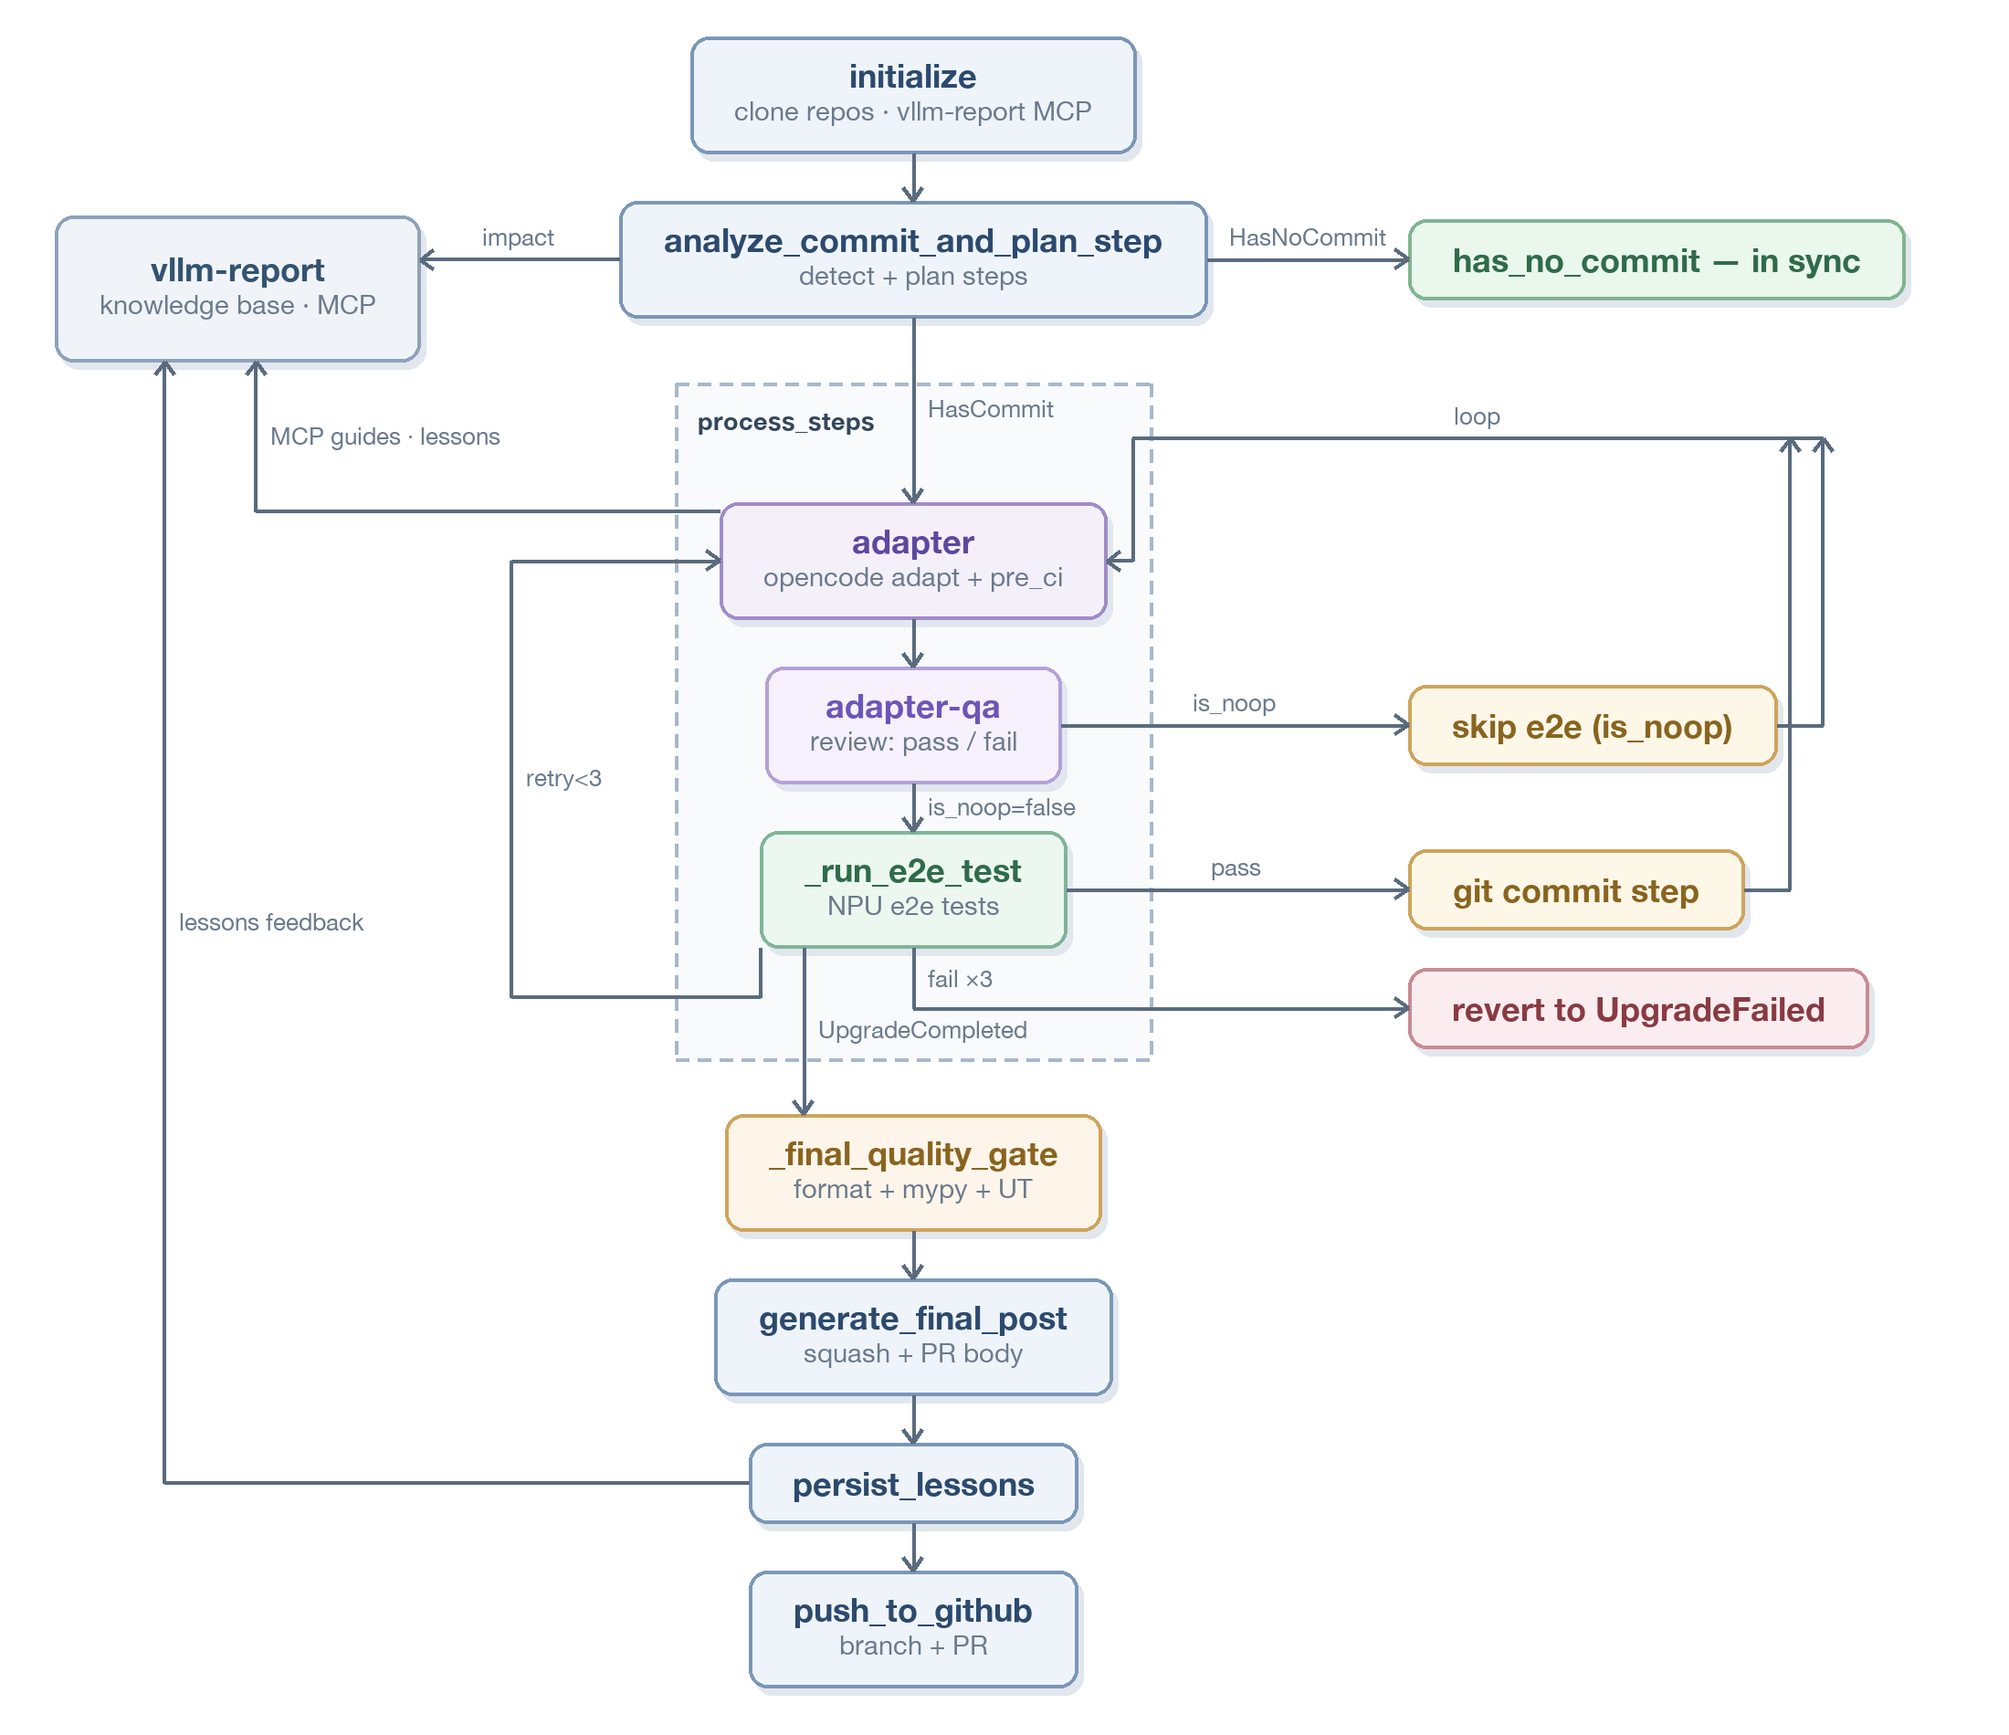
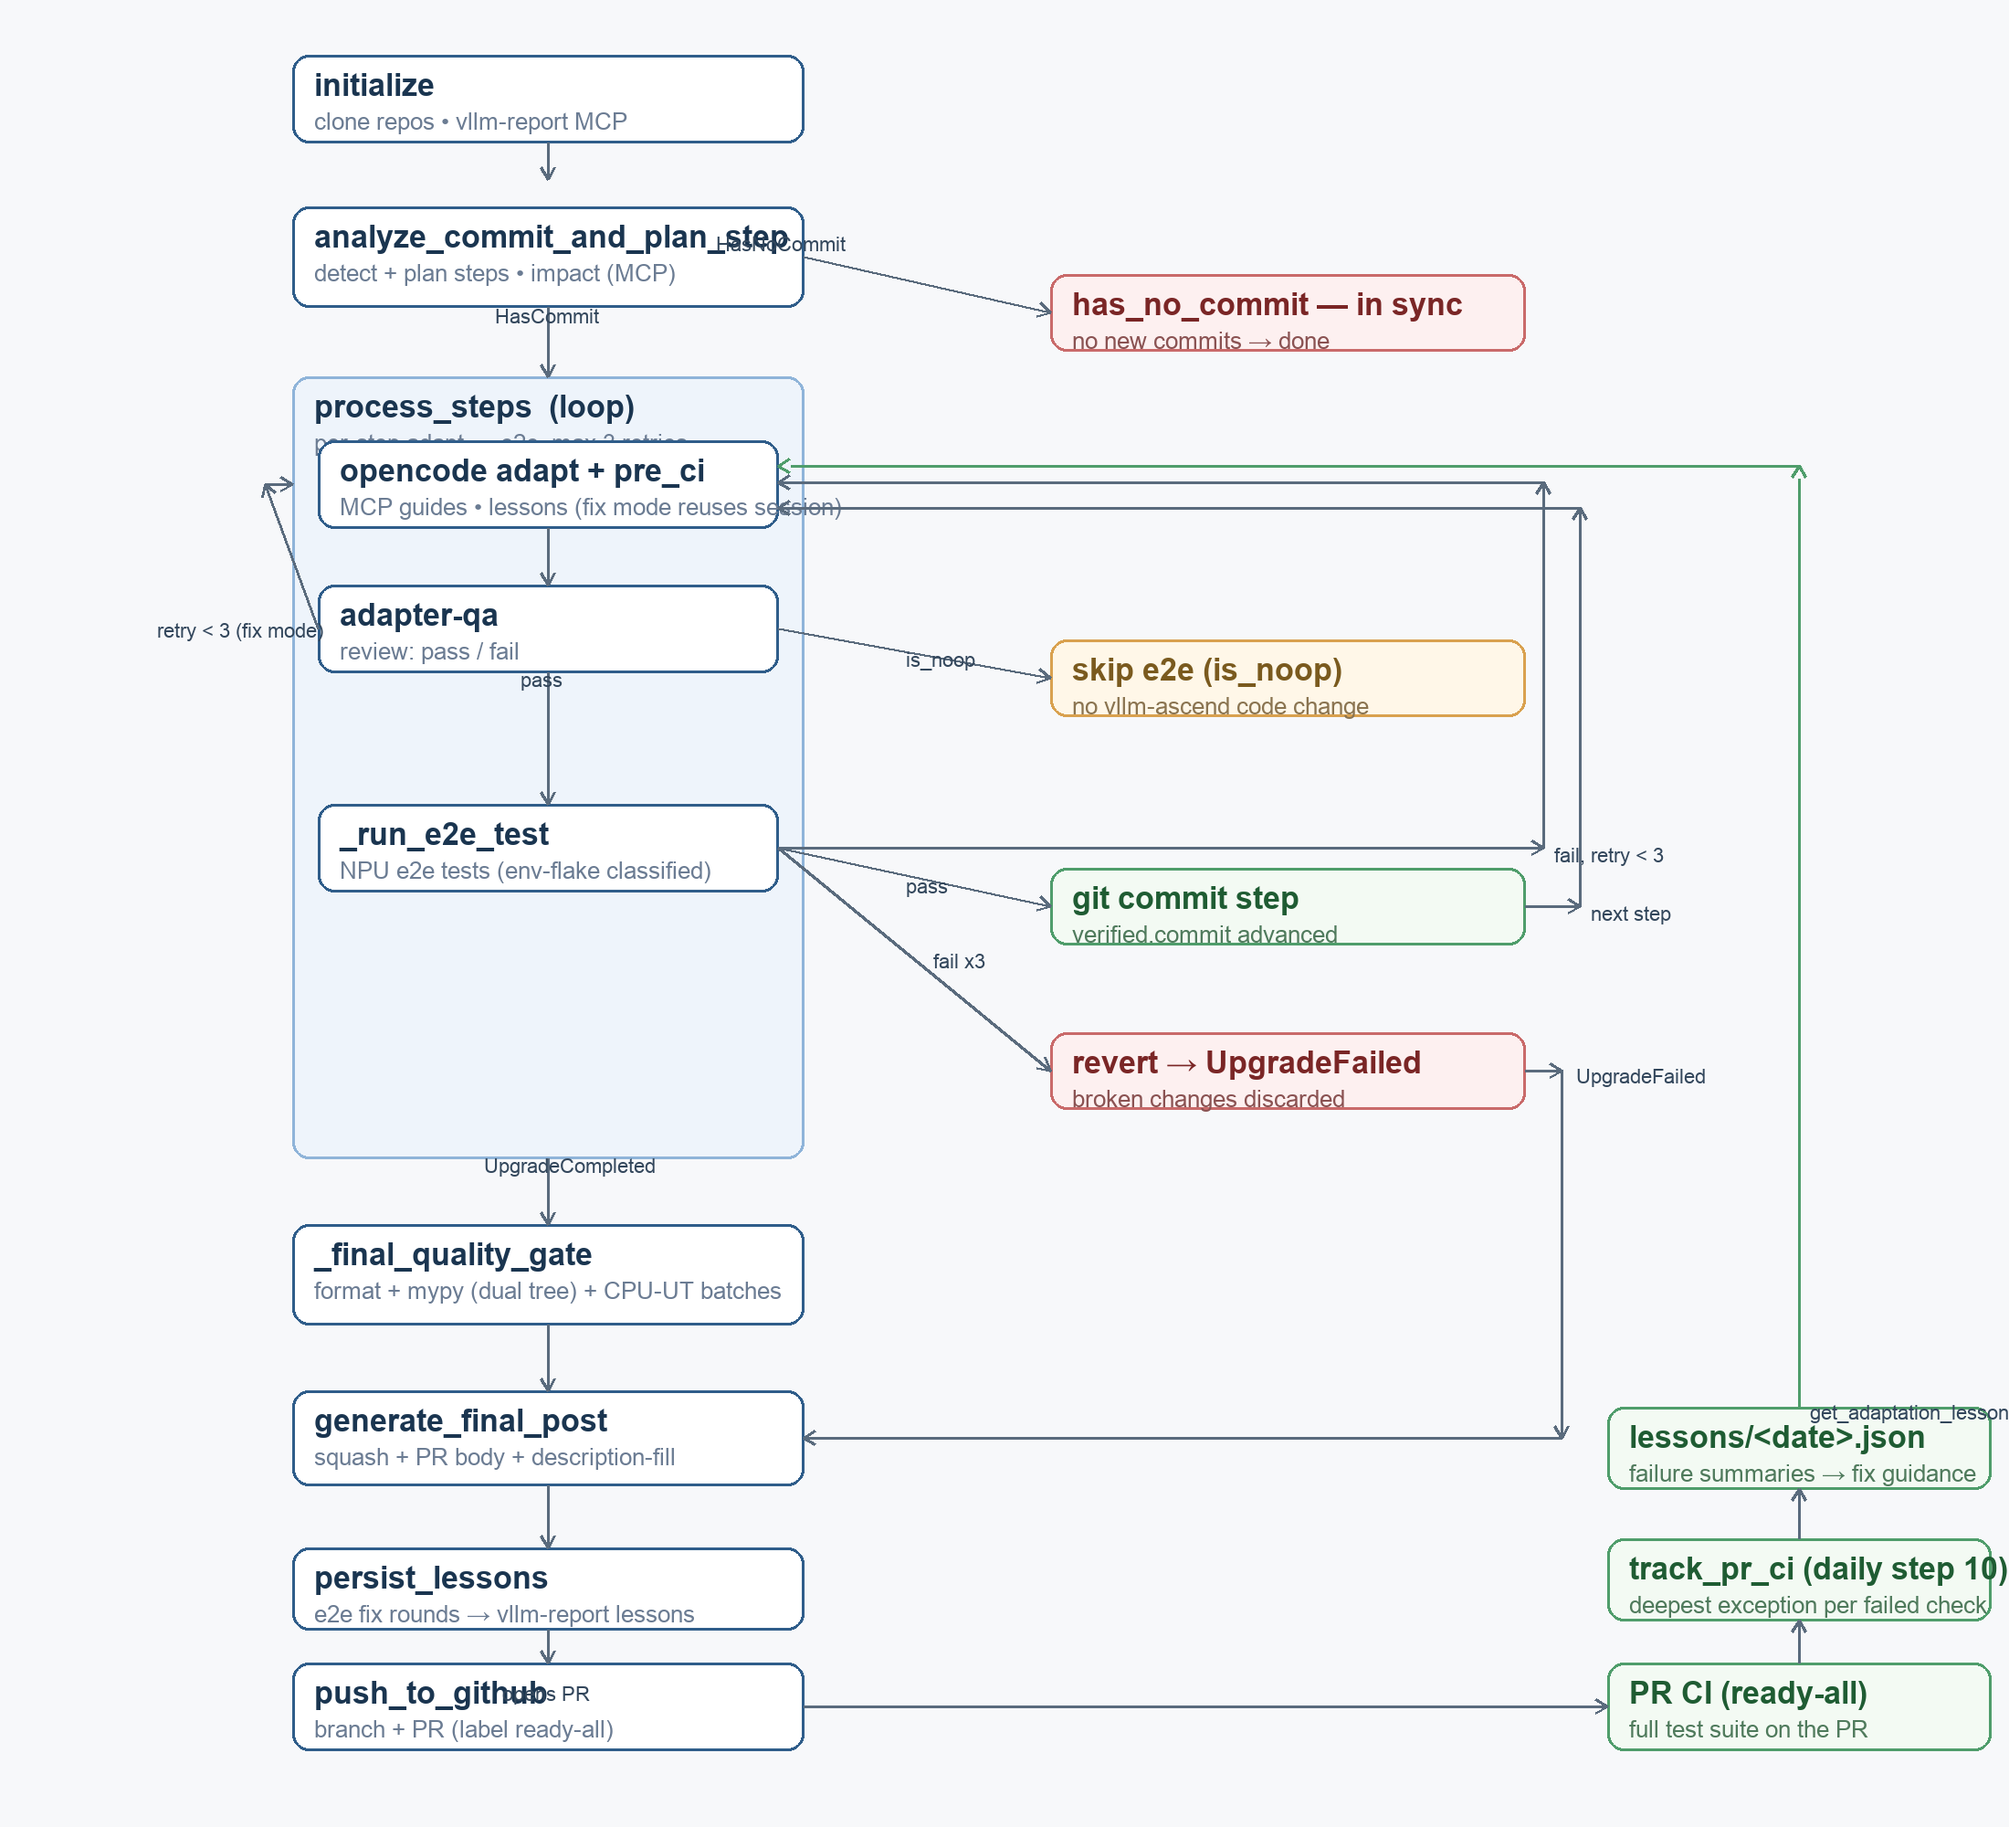
docs: refresh guide.md and workflow.png to match current flow
- Add vllm-report MCP knowledge base, final quality gate (format + mypy
  dual-tree + CPU-UT batches), persist_lessons, description-fill, and the
  PR-CI feedback loop (track_pr_ci) to the guide
- Fix stale facts: verified.commit as base source, PR_LABELS default
  ready-all, 0-step runs skip PR creation
- Regenerate workflow.png (2200x2000, PIL) with the current loop structure;
  keep the drawing script at docs/images/draw_workflow.py

diff --git a/docs/images/draw_workflow.py b/docs/images/draw_workflow.py
@@ -1,0 +1,135 @@
+#!/usr/bin/env python3
+"""Regenerate docs/images/workflow.png — main2main flow diagram (2200x2000)."""
+from PIL import Image, ImageDraw, ImageFont
+import math
+
+W, H = 2200, 2000
+BG = "#f7f8fa"
+FONT = "/System/Library/Fonts/Supplemental/Arial Bold.ttf"
+FONT_R = "/System/Library/Fonts/Supplemental/Arial.ttf"
+
+f_title = ImageFont.truetype(FONT, 34)
+f_sub = ImageFont.truetype(FONT_R, 26)
+f_small = ImageFont.truetype(FONT_R, 22)
+
+img = Image.new("RGB", (W, H), BG)
+d = ImageDraw.Draw(img)
+
+STYLE = {
+    "main":      {"fill": "#ffffff", "border": "#2f5d8a", "title": "#1a3550", "sub": "#6b7c93"},
+    "container": {"fill": "#eef4fb", "border": "#8fb4d9", "title": "#1a3550", "sub": "#6b7c93"},
+    "decision":  {"fill": "#fff7e8", "border": "#d9a14f", "title": "#7a5a1e", "sub": "#8a7450"},
+    "terminal":  {"fill": "#fdf0f0", "border": "#c96a6a", "title": "#7a2626", "sub": "#8a5252"},
+    "loop":      {"fill": "#f3faf3", "border": "#4f9d6b", "title": "#1f5c33", "sub": "#4f7a5c"},
+}
+
+def node(x, y, w, h, title, sub=None, kind="main"):
+    s = STYLE[kind]
+    d.rounded_rectangle([x, y, x + w, y + h], radius=18, fill=s["fill"], outline=s["border"], width=3)
+    d.text((x + 24, y + 14), title, font=f_title, fill=s["title"])
+    if sub:
+        d.text((x + 24, y + 58), sub, font=f_sub, fill=s["sub"])
+    return (x, y, w, h)
+
+def down(n, dy=40):
+    x, y, w, h = n
+    return (x + w // 2, y + h), (x + w // 2, y + h + dy)
+
+def right(n, dx=40):
+    x, y, w, h = n
+    return (x + w, y + h // 2), (x + w + dx, y + h // 2)
+
+def arrow(p1, p2, label=None, dash=False, color="#5a6b7d", label_dx=0, label_dy=0):
+    x1, y1 = p1
+    x2, y2 = p2
+    if dash:
+        n = max(int(((x2 - x1) ** 2 + (y2 - y1) ** 2) ** 0.5 / 14), 2)
+        pts = [(x1 + (x2 - x1) * t, y1 + (y2 - y1) * t)
+               for t in [i / n for i in range(n + 1) if i % 2 == 0]]
+        if pts:
+            d.line(pts, fill=color, width=3)
+    else:
+        d.line([x1, y1, x2, y2], fill=color, width=3)
+    ang = math.atan2(y2 - y1, x2 - x1)
+    L = 15
+    for a in (ang + 2.6, ang - 2.6):
+        d.line([x2, y2, x2 + L * math.cos(a), y2 + L * math.sin(a)], fill=color, width=3)
+    if label:
+        d.text((x1 + label_dx, y1 + label_dy), label, font=f_small, fill="#33475c")
+
+# ---------- layout ----------
+MX, MW = 320, 560          # main column (320-880)
+RX, RW = 1150, 520         # right column (1150-1670)
+LX, LW = 1760, 420         # loop column (1760-2180)
+CH_FR, CH_NS, CH_LS = 1690, 1730, 1970   # vertical channels: fail-retry / next-step / lessons
+
+# main column
+n_ini = node(MX, 60, MW, 96, "initialize", "clone repos • vllm-report MCP")
+n_ana = node(MX, 226, MW, 110, "analyze_commit_and_plan_step", "detect + plan steps • impact (MCP)")
+cont = node(MX, 412, MW, 856, "process_steps  (loop)", "per-step adapt → e2e, max 3 retries", "container")
+n_adp = node(MX + 28, 482, MW - 56, 96, "opencode adapt + pre_ci", "MCP guides • lessons (fix mode reuses session)")
+n_qa = node(MX + 28, 640, MW - 56, 96, "adapter-qa", "review: pass / fail")
+n_e2e = node(MX + 28, 880, MW - 56, 96, "_run_e2e_test", "NPU e2e tests (env-flake classified)")
+n_gate = node(MX, 1340, MW, 110, "_final_quality_gate", "format + mypy (dual tree) + CPU-UT batches")
+n_post = node(MX, 1522, MW, 104, "generate_final_post", "squash + PR body + description-fill")
+n_less = node(MX, 1694, MW, 90, "persist_lessons", "e2e fix rounds → vllm-report lessons")
+n_push = node(MX, 1820, MW, 96, "push_to_github", "branch + PR (label ready-all)")
+
+# right column — branches
+n_sync = node(RX, 300, RW, 84, "has_no_commit — in sync", "no new commits → done", "terminal")
+n_noop = node(RX, 700, RW, 84, "skip e2e (is_noop)", "no vllm-ascend code change", "decision")
+n_commit = node(RX, 950, RW, 84, "git commit step", "verified.commit advanced", "loop")
+n_revert = node(RX, 1130, RW, 84, "revert → UpgradeFailed", "broken changes discarded", "terminal")
+
+# loop column — PR CI feedback
+n_ci = node(LX, 1820, LW, 96, "PR CI (ready-all)", "full test suite on the PR", "loop")
+n_track = node(LX, 1684, LW, 90, "track_pr_ci (daily step 10)", "deepest exception per failed check", "loop")
+n_lsn = node(LX, 1540, LW, 90, "lessons/<date>.json", "failure summaries → fix guidance", "loop")
+
+# ---------- main column arrows ----------
+a, b = down(n_ini, 40); arrow(a, b)
+arrow((600, 336), (600, 412), label="HasCommit", label_dx=-58, label_dy=-2)
+arrow((880, 281), (1150, 342), label="HasNoCommit", label_dx=-96, label_dy=-26)
+
+arrow((600, 578), (600, 640))
+arrow((600, 736), (600, 880), label="pass", label_dx=-30, label_dy=-4)
+# retry < 3: adapter-qa left -> adapter left
+arrow((348, 688), (290, 530), label="retry < 3 (fix mode)", label_dx=-176, label_dy=-10)
+arrow((290, 530), (320, 530))
+
+arrow((600, 1268), (600, 1340), label="UpgradeCompleted", label_dx=-70, label_dy=-4)
+arrow((600, 1450), (600, 1522))
+arrow((600, 1626), (600, 1694))
+arrow((600, 1784), (600, 1820))
+
+# ---------- right column ----------
+# is_noop: adapter-qa right -> skip-e2e node left
+arrow((852, 688), (1150, 742), label="is_noop", label_dx=140, label_dy=22)
+# pass: e2e right -> git-commit left
+arrow((852, 928), (1150, 992), label="pass", label_dx=140, label_dy=30)
+# fail x3: e2e right -> revert left
+arrow((852, 928), (1150, 1172), label="fail x3", label_dx=170, label_dy=112)
+# fail retry < 3: e2e right -> channel -> adapter right
+arrow((852, 928), (CH_FR, 928))
+arrow((CH_FR, 928), (CH_FR, 528), label="fail, retry < 3", label_dx=12, label_dy=-4)
+arrow((CH_FR, 528), (852, 528))
+# next step: git-commit right -> channel -> adapter right
+arrow((1670, 992), (CH_NS, 992))
+arrow((CH_NS, 992), (CH_NS, 556), label="next step", label_dx=12, label_dy=-4)
+arrow((CH_NS, 556), (852, 556))
+# UpgradeFailed: revert right -> generate_final_post right
+arrow((1670, 1172), (1710, 1172))
+arrow((1710, 1172), (1710, 1574), label="UpgradeFailed", label_dx=16, label_dy=-6)
+arrow((1710, 1574), (880, 1574))
+
+# ---------- loop column ----------
+arrow((880, 1868), (1760, 1868), label="opens PR", label_dx=-330, label_dy=-26)
+arrow((1970, 1820), (1970, 1774))
+arrow((1970, 1684), (1970, 1630))
+# lessons -> adapter (dashed)
+arrow((1970, 1540), (1970, 510), dash=True, color="#4f9d6b",
+      label="get_adaptation_lessons → hit", label_dx=12, label_dy=-6)
+arrow((1970, 510), (852, 510), dash=True, color="#4f9d6b")
+
+img.save("/Users/luweijun/project/2026/github/main2main_flow/docs/images/workflow.png")
+print("saved workflow.png", img.size)
